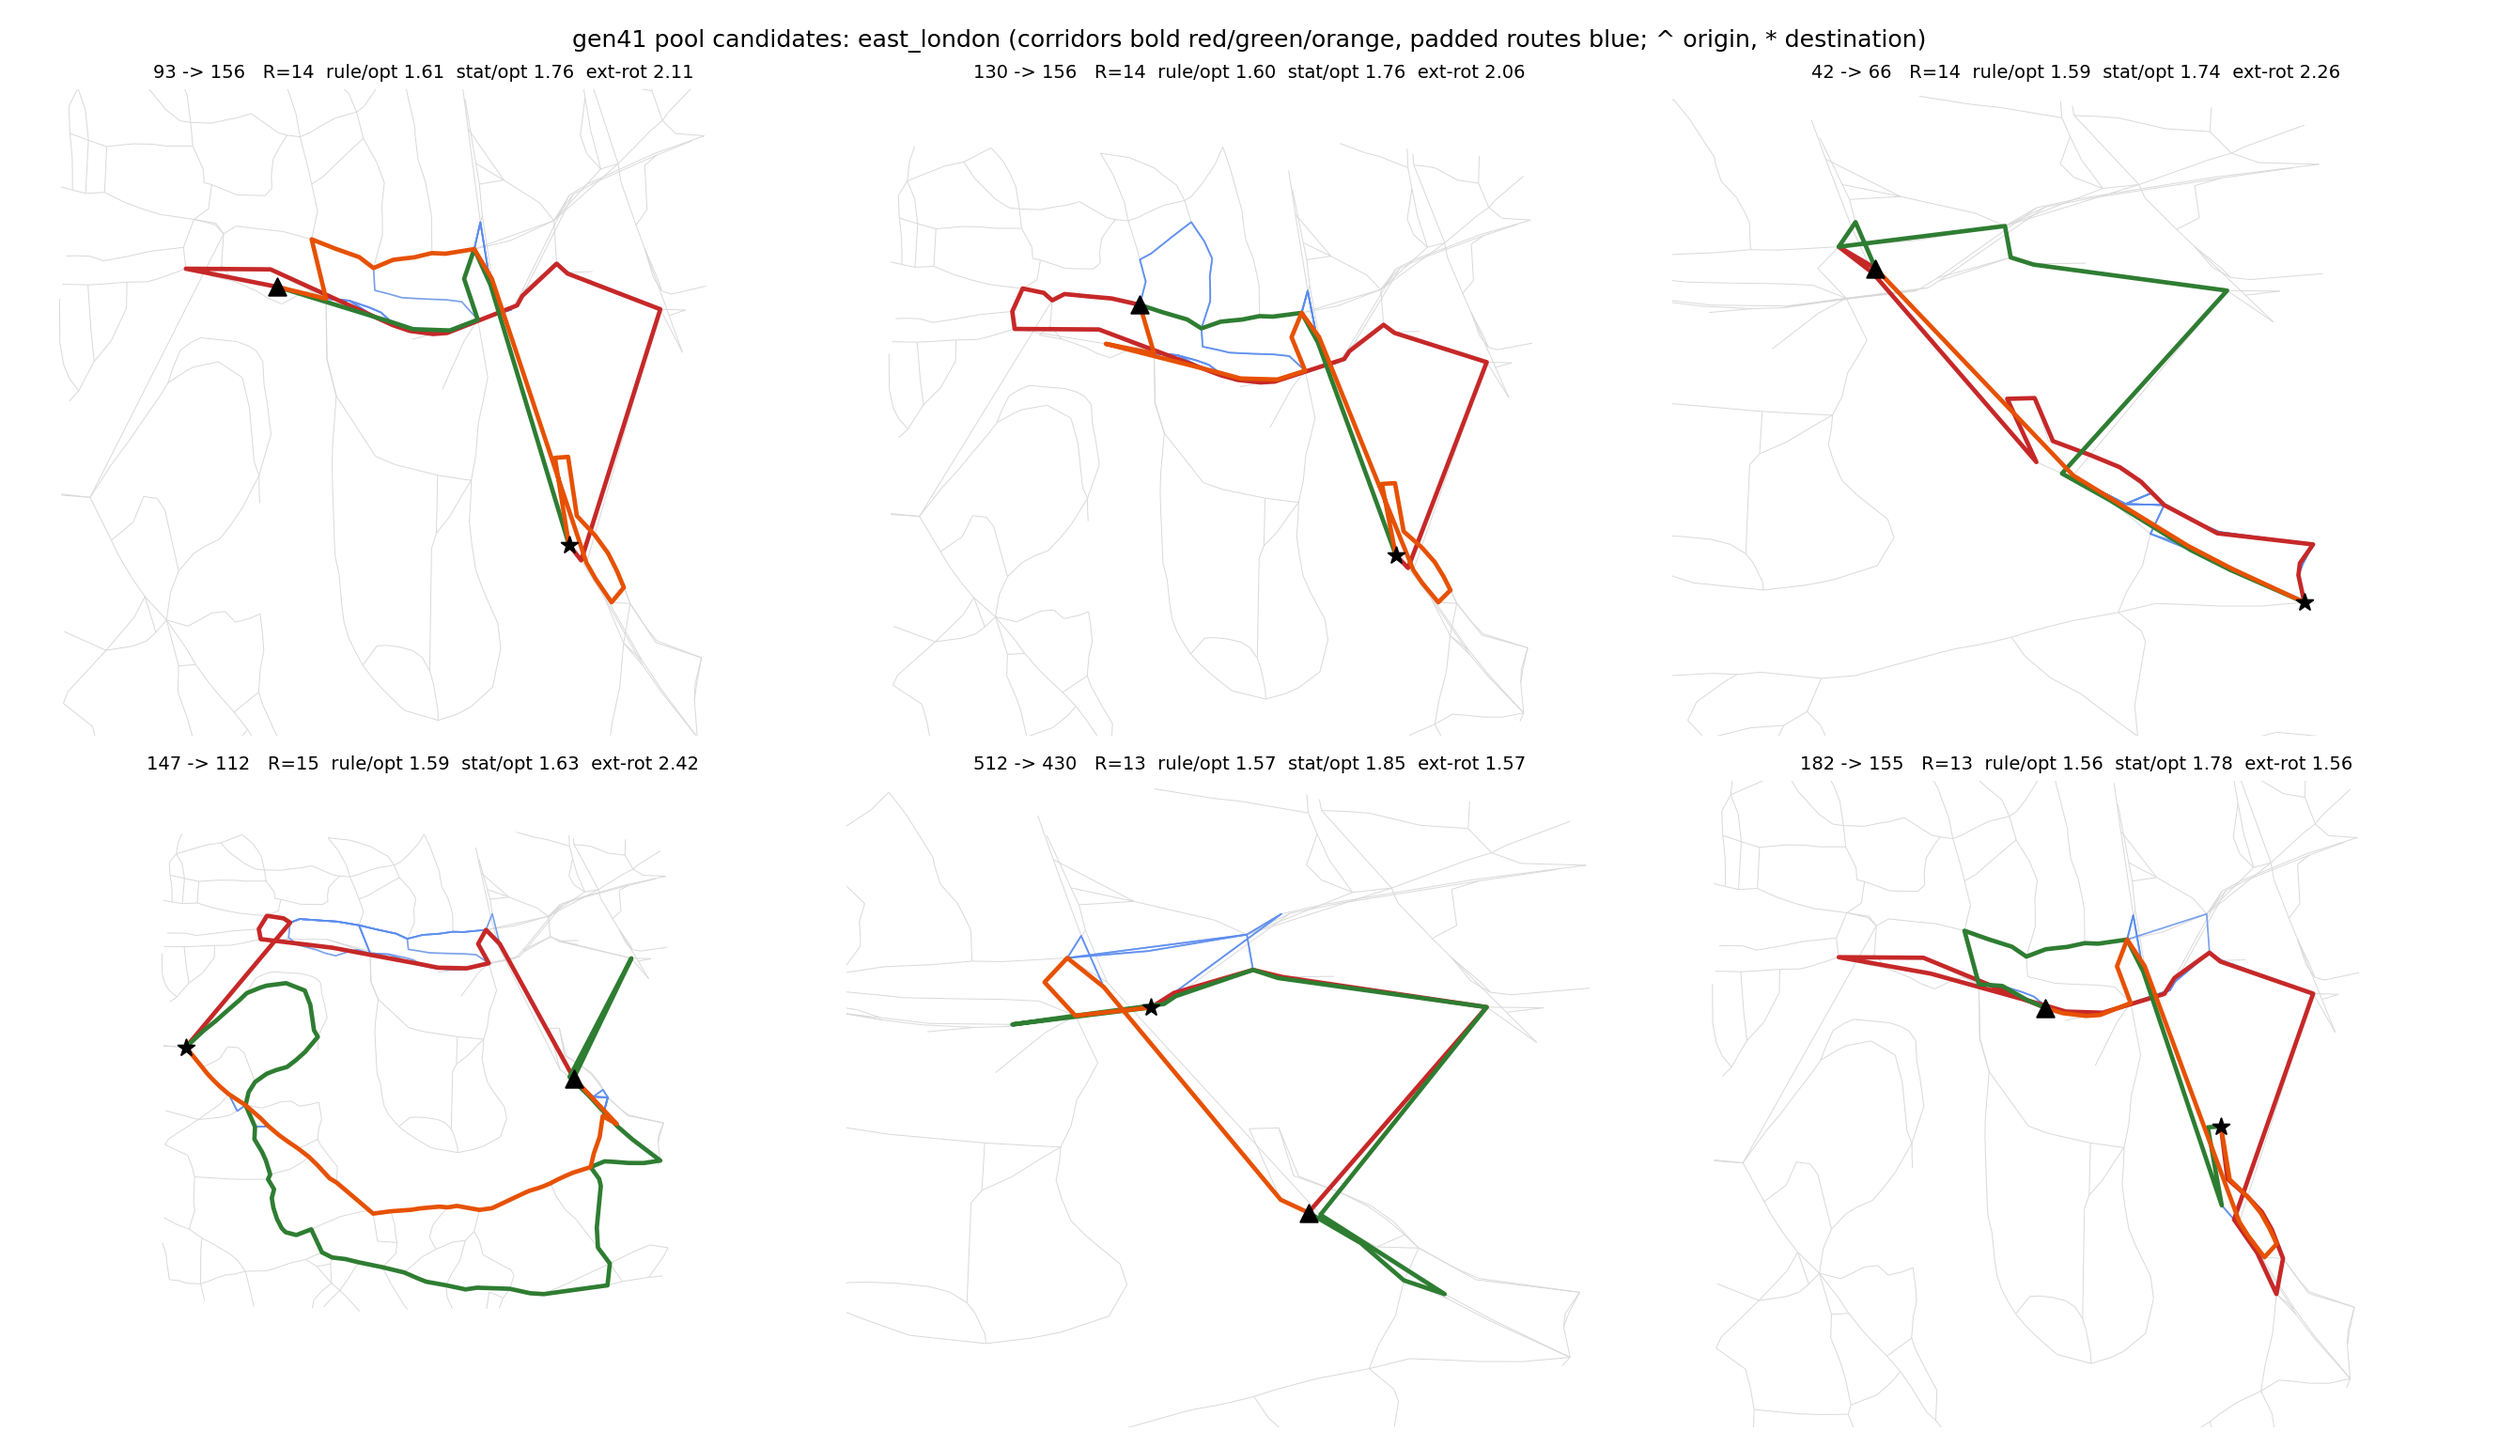
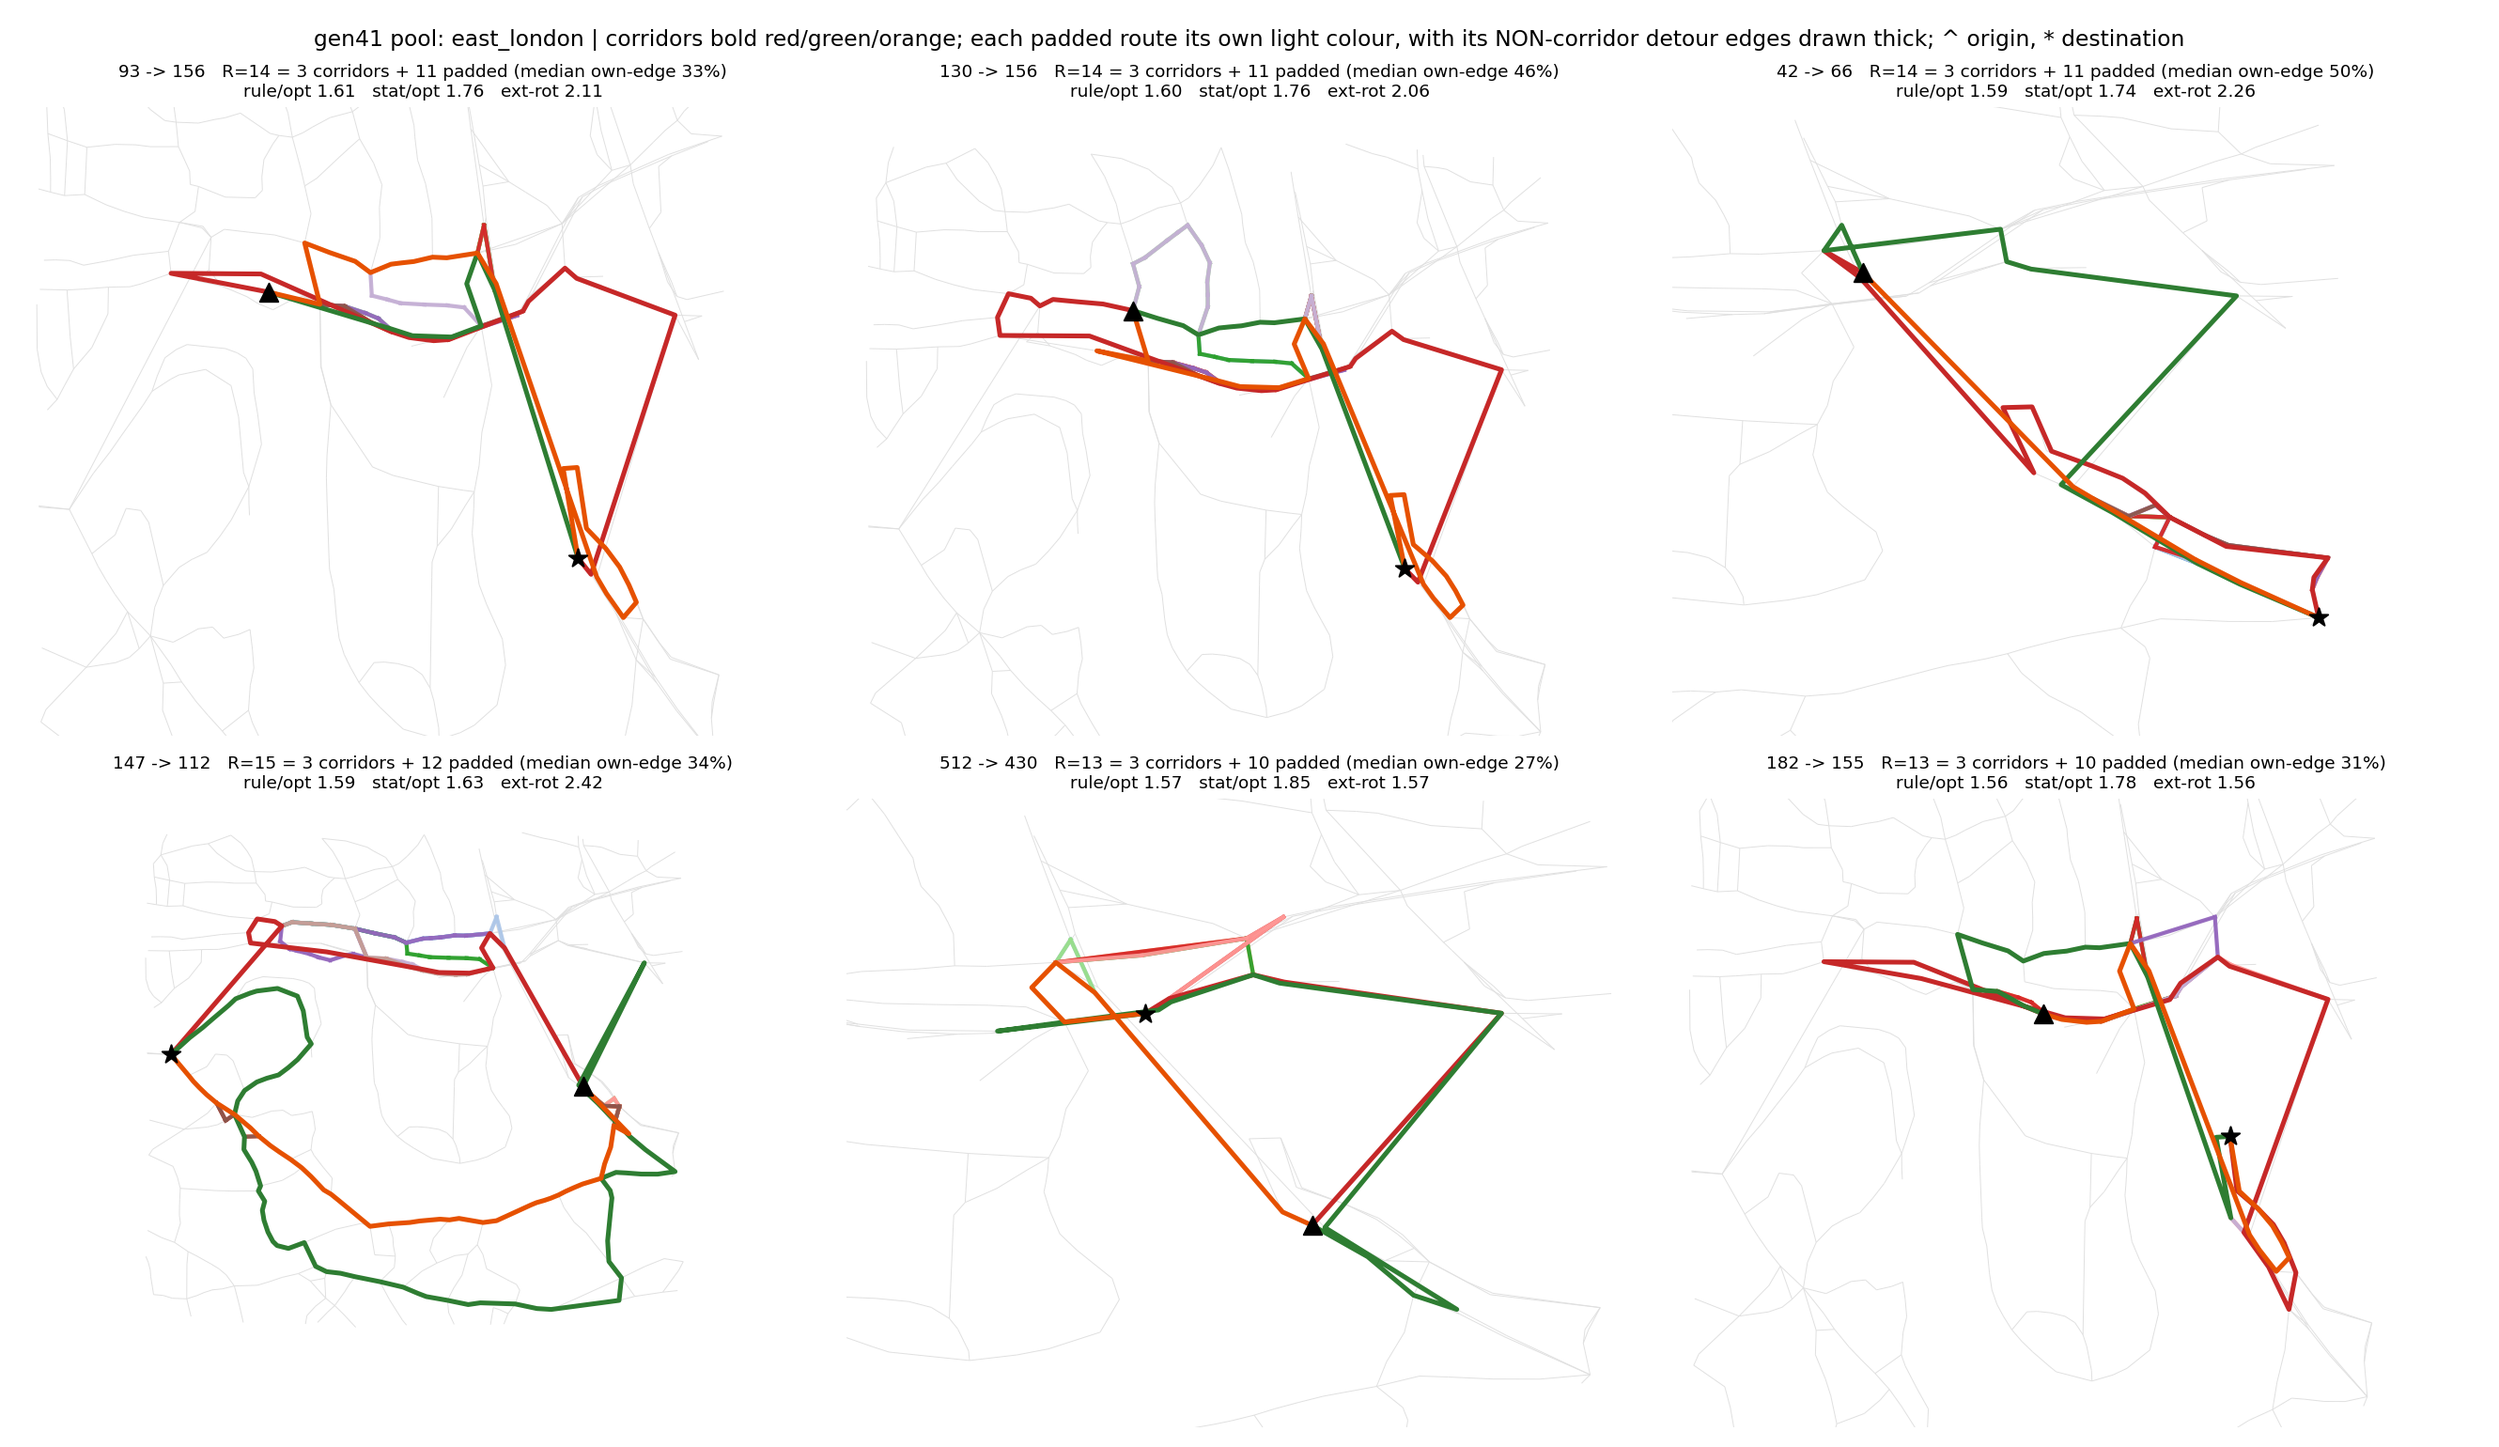
gen41 review round 1: gdansk 70-297 swapped for 303-15; padded-route count verified (R=13-15 real, 59-100% edge overlap with corridors = rendering artefact); renderer v2 with per-route colours + thick detour edges + own-edge annotations (edge-key defect fixed, disclosed); taxonomy clarified (ext-rot

diff --git a/scratch/gen41_render.py b/scratch/gen41_render.py
@@ -1,0 +1,130 @@
+#!/usr/bin/env python3
+"""gen41 contact-sheet renderer v2 (post-review): every padded route individually visible.
+
+Changes vs the screen's first render, per Kilian's 2026-08-05 review: (i) the gdansk
+70-297 -> 303-15 swap applied (recorded in the ledger); (ii) padded routes each get a
+distinct colour, with the edges NOT shared with the corridor union drawn thicker so each
+route's own detour is discernible despite 59-100% edge overlap with the corridors;
+(iii) per-panel annotation counts corridors + padded and the median own-edge share.
+
+Run: OMP_NUM_THREADS=1 PYTHONPATH=. .venv/bin/python scratch/gen41_render.py
+Rewrites assets/gen41_pool/<city>.png (previous versions preserved in git history).
+"""
+from __future__ import annotations
+
+import json
+
+import matplotlib
+matplotlib.use("Agg")
+import matplotlib.pyplot as plt
+import networkx as nx
+import numpy as np
+from matplotlib.collections import LineCollection
+
+from scratch.critique_followup_probes import disjoint_subset
+from scripts.train_generalist import CITY_PATHS
+from src.envs.multiconvoy_interdiction import _DEFAULT_TASKS, make_multiconvoy_env
+from src.utils.graph_utils import load_osm_graph_and_demands
+
+BAND, KX = (0.15, 0.95), 12
+PNG_DIR = "assets/gen41_pool"
+SWAPS = {"gdansk": {("70", "297"): ("303", "15")}}
+CORRIDOR_COLOURS = ["#c62828", "#2e7d32", "#e65100"]
+
+
+def edge_key(u, v):
+    return frozenset((u, v))
+
+
+def render_city(city, selected, rows_by_od):
+    nodes_path, edges_path = CITY_PATHS[city]
+    nodes, edges = load_osm_graph_and_demands(nodes_path, edges_path, _DEFAULT_TASKS)
+    G = nx.Graph()
+    for u, v, d in edges:
+        G.add_edge(str(u), str(v))
+    segs = [[(nodes[u]["x"], nodes[u]["y"]), (nodes[v]["x"], nodes[v]["y"])]
+            for u, v in G.edges() if u in nodes and v in nodes]
+    fig, axes = plt.subplots(2, 3, figsize=(19, 11))
+    axes = axes.ravel()
+    pad_cmap = plt.get_cmap("tab20")
+    for i, ax in enumerate(axes):
+        ax.set_axis_off()
+        if i >= len(selected):
+            continue
+        od = tuple(selected[i])
+        r = rows_by_od.get(od, {})
+        env = make_multiconvoy_env(od, N=3, K=2, k_extra_routes=KX, menu_select=True,
+                                   edge_vuln_band=BAND, nodes_path=nodes_path,
+                                   edges_path=edges_path)
+        game = env.game
+        re_ = [set(e) for e in game.route_edges]
+        dis = disjoint_subset(re_)
+        core_union = set().union(*[re_[j] for j in dis])
+        ax.add_collection(LineCollection(segs, colors="#e0e0e0", linewidths=0.5, zorder=1))
+        own_shares = []
+        pad_i = 0
+        for j, route in enumerate(game.routes):
+            pts = [(nodes[n]["x"], nodes[n]["y"]) for n in route if n in nodes]
+            if j in dis:
+                continue
+            col = pad_cmap(pad_i % 20)
+            pad_i += 1
+            ax.plot(*zip(*pts), color=col, lw=0.9, alpha=0.65, zorder=2)
+            own = [(a, b) for a, b in zip(route[:-1], route[1:])
+                   if edge_key(a, b) not in core_union]
+            own_shares.append(len(own) / max(1, len(route) - 1))
+            for a, b in own:
+                if a in nodes and b in nodes:
+                    ax.plot([nodes[a]["x"], nodes[b]["x"]], [nodes[a]["y"], nodes[b]["y"]],
+                            color=col, lw=2.2, alpha=0.95, zorder=3)
+        for ci, j in enumerate(dis):
+            pts = [(nodes[n]["x"], nodes[n]["y"]) for n in game.routes[j] if n in nodes]
+            ax.plot(*zip(*pts), color=CORRIDOR_COLOURS[ci % 3], lw=2.6, zorder=4)
+        s, t = od
+        ax.scatter([nodes[s]["x"]], [nodes[s]["y"]], s=100, c="black", marker="^", zorder=5)
+        ax.scatter([nodes[t]["x"]], [nodes[t]["y"]], s=110, c="black", marker="*", zorder=5)
+        med_own = 100 * float(np.median(own_shares)) if own_shares else 0.0
+        ann = (f"{s} -> {t}   R={game.n_routes} = 3 corridors + "
+               f"{game.n_routes - 3} padded (median own-edge {med_own:.0f}%)")
+        if r:
+            ann += (f"\nrule/opt {r['rule_over_opt']:.2f}   stat/opt "
+                    f"{r['static_over_opt']:.2f}   ext-rot {r['ext_over_opt']:.2f}")
+        ax.set_title(ann, fontsize=9.5)
+        xs = [p[0] for route in game.routes for p in
+              [(nodes[n]["x"], nodes[n]["y"]) for n in route if n in nodes]]
+        ys = [p[1] for route in game.routes for p in
+              [(nodes[n]["x"], nodes[n]["y"]) for n in route if n in nodes]]
+        mx = (max(xs) - min(xs)) * 0.3 + 1e-5
+        my = (max(ys) - min(ys)) * 0.3 + 1e-5
+        ax.set_xlim(min(xs) - mx, max(xs) + mx)
+        ax.set_ylim(min(ys) - my, max(ys) + my)
+    fig.suptitle(f"gen41 pool: {city} | corridors bold red/green/orange; each padded route "
+                 f"its own light colour, with its NON-corridor detour edges drawn thick; "
+                 f"^ origin, * destination", fontsize=12)
+    fig.tight_layout()
+    path = f"{PNG_DIR}/{city}.png"
+    fig.savefig(path, dpi=140)
+    plt.close(fig)
+    print(f"wrote {path}", flush=True)
+
+
+def main():
+    d = json.load(open("models/runs/gen41_pool_screen.json"))
+    for city, blob in d["cities"].items():
+        selected = [tuple(od) for od in blob["selected"]]
+        for old, new in SWAPS.get(city, {}).items():
+            if old in selected:
+                selected[selected.index(old)] = new
+        blob["selected"] = [list(od) for od in selected]
+        blob["selection_note"] = ("gdansk 70-297 swapped for 303-15 on Kilian's review "
+                                  "2026-08-05" if city == "gdansk" else
+                                  blob.get("selection_note", ""))
+        rows_by_od = {tuple(r["od"]): r for r in blob["candidates"]}
+        render_city(city, selected, rows_by_od)
+    with open("models/runs/gen41_pool_screen.json", "w") as f:
+        json.dump(d, f, indent=1)
+    print("updated models/runs/gen41_pool_screen.json (swap recorded)", flush=True)
+
+
+if __name__ == "__main__":
+    main()

diff --git a/experiments/gen41_deepwindow_zst.md b/experiments/gen41_deepwindow_zst.md
@@ -98,3 +98,29 @@ replacing it with the next-ranked gdansk passer; one-line swap in the artefact.
 
 **State: pools await Kilian's PNG review; the K=1-vs-K=2 note above awaits his call;
 bars finalise at his go; NOTHING TRAINS until then.**
+
+### REVIEW ROUND 1 (2026-08-05, Kilian's first pass on the sheets)
+
+1. **Swap APPLIED:** gdansk 70-297 (degenerate geometry) replaced by the next-ranked passer
+   303-15 (R=14; rule/opt 1.62; stat/opt 1.73; ext-rot/opt 1.66); recorded in the artefact's
+   `selection_note`.
+2. **"Not enough padded routes" resolved as a RENDERING artefact, verified numerically:**
+   every selected instance has its full menu (R = 13-15 = 3 corridors + 10-12 padded;
+   R < 15 where the k-shortest generator's near-duplicates dedup). The padded routes share
+   59-100% of their edges with the corridor union (median own-edge share 15-50% per
+   instance; a few padded routes are pure RECOMBINATIONS of corridor segments with zero own
+   edges, still distinct paths), so they draw underneath the bold corridors. Renderer v2
+   (`scratch/gen41_render.py`, first version had an edge-key-format defect fixed and
+   disclosed) gives each padded route its own colour, draws its non-corridor detour edges
+   thick, and annotates each panel with the route count and the median own-edge share.
+   This anatomy is BY CONSTRUCTION (k-shortest padding) and is exactly where the gen40
+   padding value lives: short detours around punished corridor edges.
+3. **Taxonomy clarification (Kilian's question):** the extended rotation is NEITHER an
+   avoid-where-ambushed rule NOR a self-tuning rule. It is a MAP-ONLY told rule
+   (deterministic cycle over 7-8 edge-diverse routes; consumes the menu and map, no
+   outcomes, no tuning, no payoff knowledge), i.e. the same information class as rotation
+   and the composed anti-repeat. The adaptive fair-heuristic tier (EXP3 over corridors and
+   over the menu, avoid-where-ambushed, and the self-tuning composed rule at a matched
+   interaction budget) is a SEPARATE family, deliberately not part of the screen; DRAFT
+   addition to the act: these run as REPORTED rows (not gating), evaluated by seeded
+   simulation, pending Kilian's sign-off with the bars.
